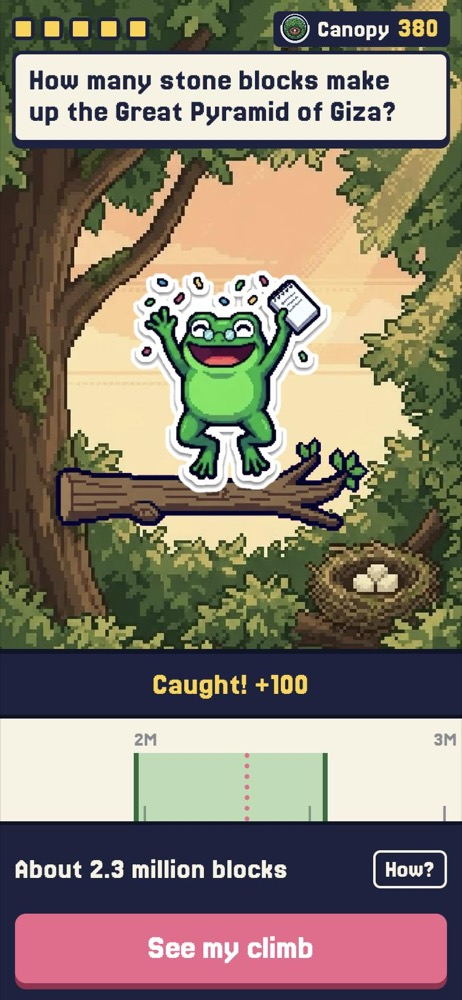
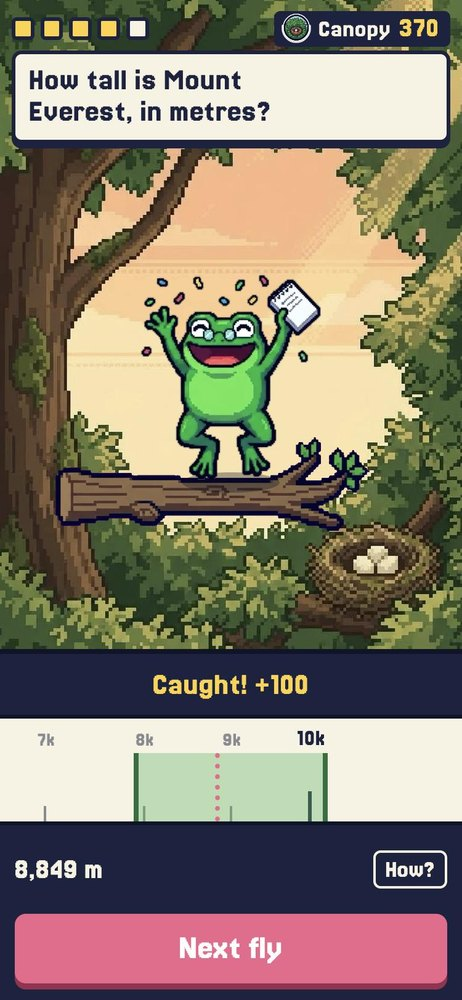
Retake the README screenshots with the frog as it is now
The four pictures showed the frog with its old white border.
New ones: the start screen, a question in the reeds, a catch in the canopy, the profile.

diff --git a/README.md b/README.md
@@ -5,9 +5,9 @@ You do not type a number: you drag a scale, choose how wide your range is, and s
 A narrow range that holds the answer pays more, and every point is height: the frog climbs from the pond to the moon.
 
 <p>
-  <img src="docs/start.jpg" width="24%" alt="Start screen: the frog asleep on a lily pad under the Fermi Frog logo">
-  <img src="docs/play.jpg" width="24%" alt="A question, with the scale and a fly sitting in the chosen range">
-  <img src="docs/climb.jpg" width="24%" alt="The frog cheers on a branch after a catch worth 100 points">
+  <img src="docs/start.jpg" width="24%" alt="Start screen: the frog writes on a lily pad under the Fermi Frog logo">
+  <img src="docs/play.jpg" width="24%" alt="A question in the reeds, with the scale and the five widths under it">
+  <img src="docs/climb.jpg" width="24%" alt="The frog cheers on a branch in the canopy after a catch worth 100 points">
   <img src="docs/profile.jpg" width="24%" alt="The profile: choose a frog, a language and a colour">
 </p>
 
